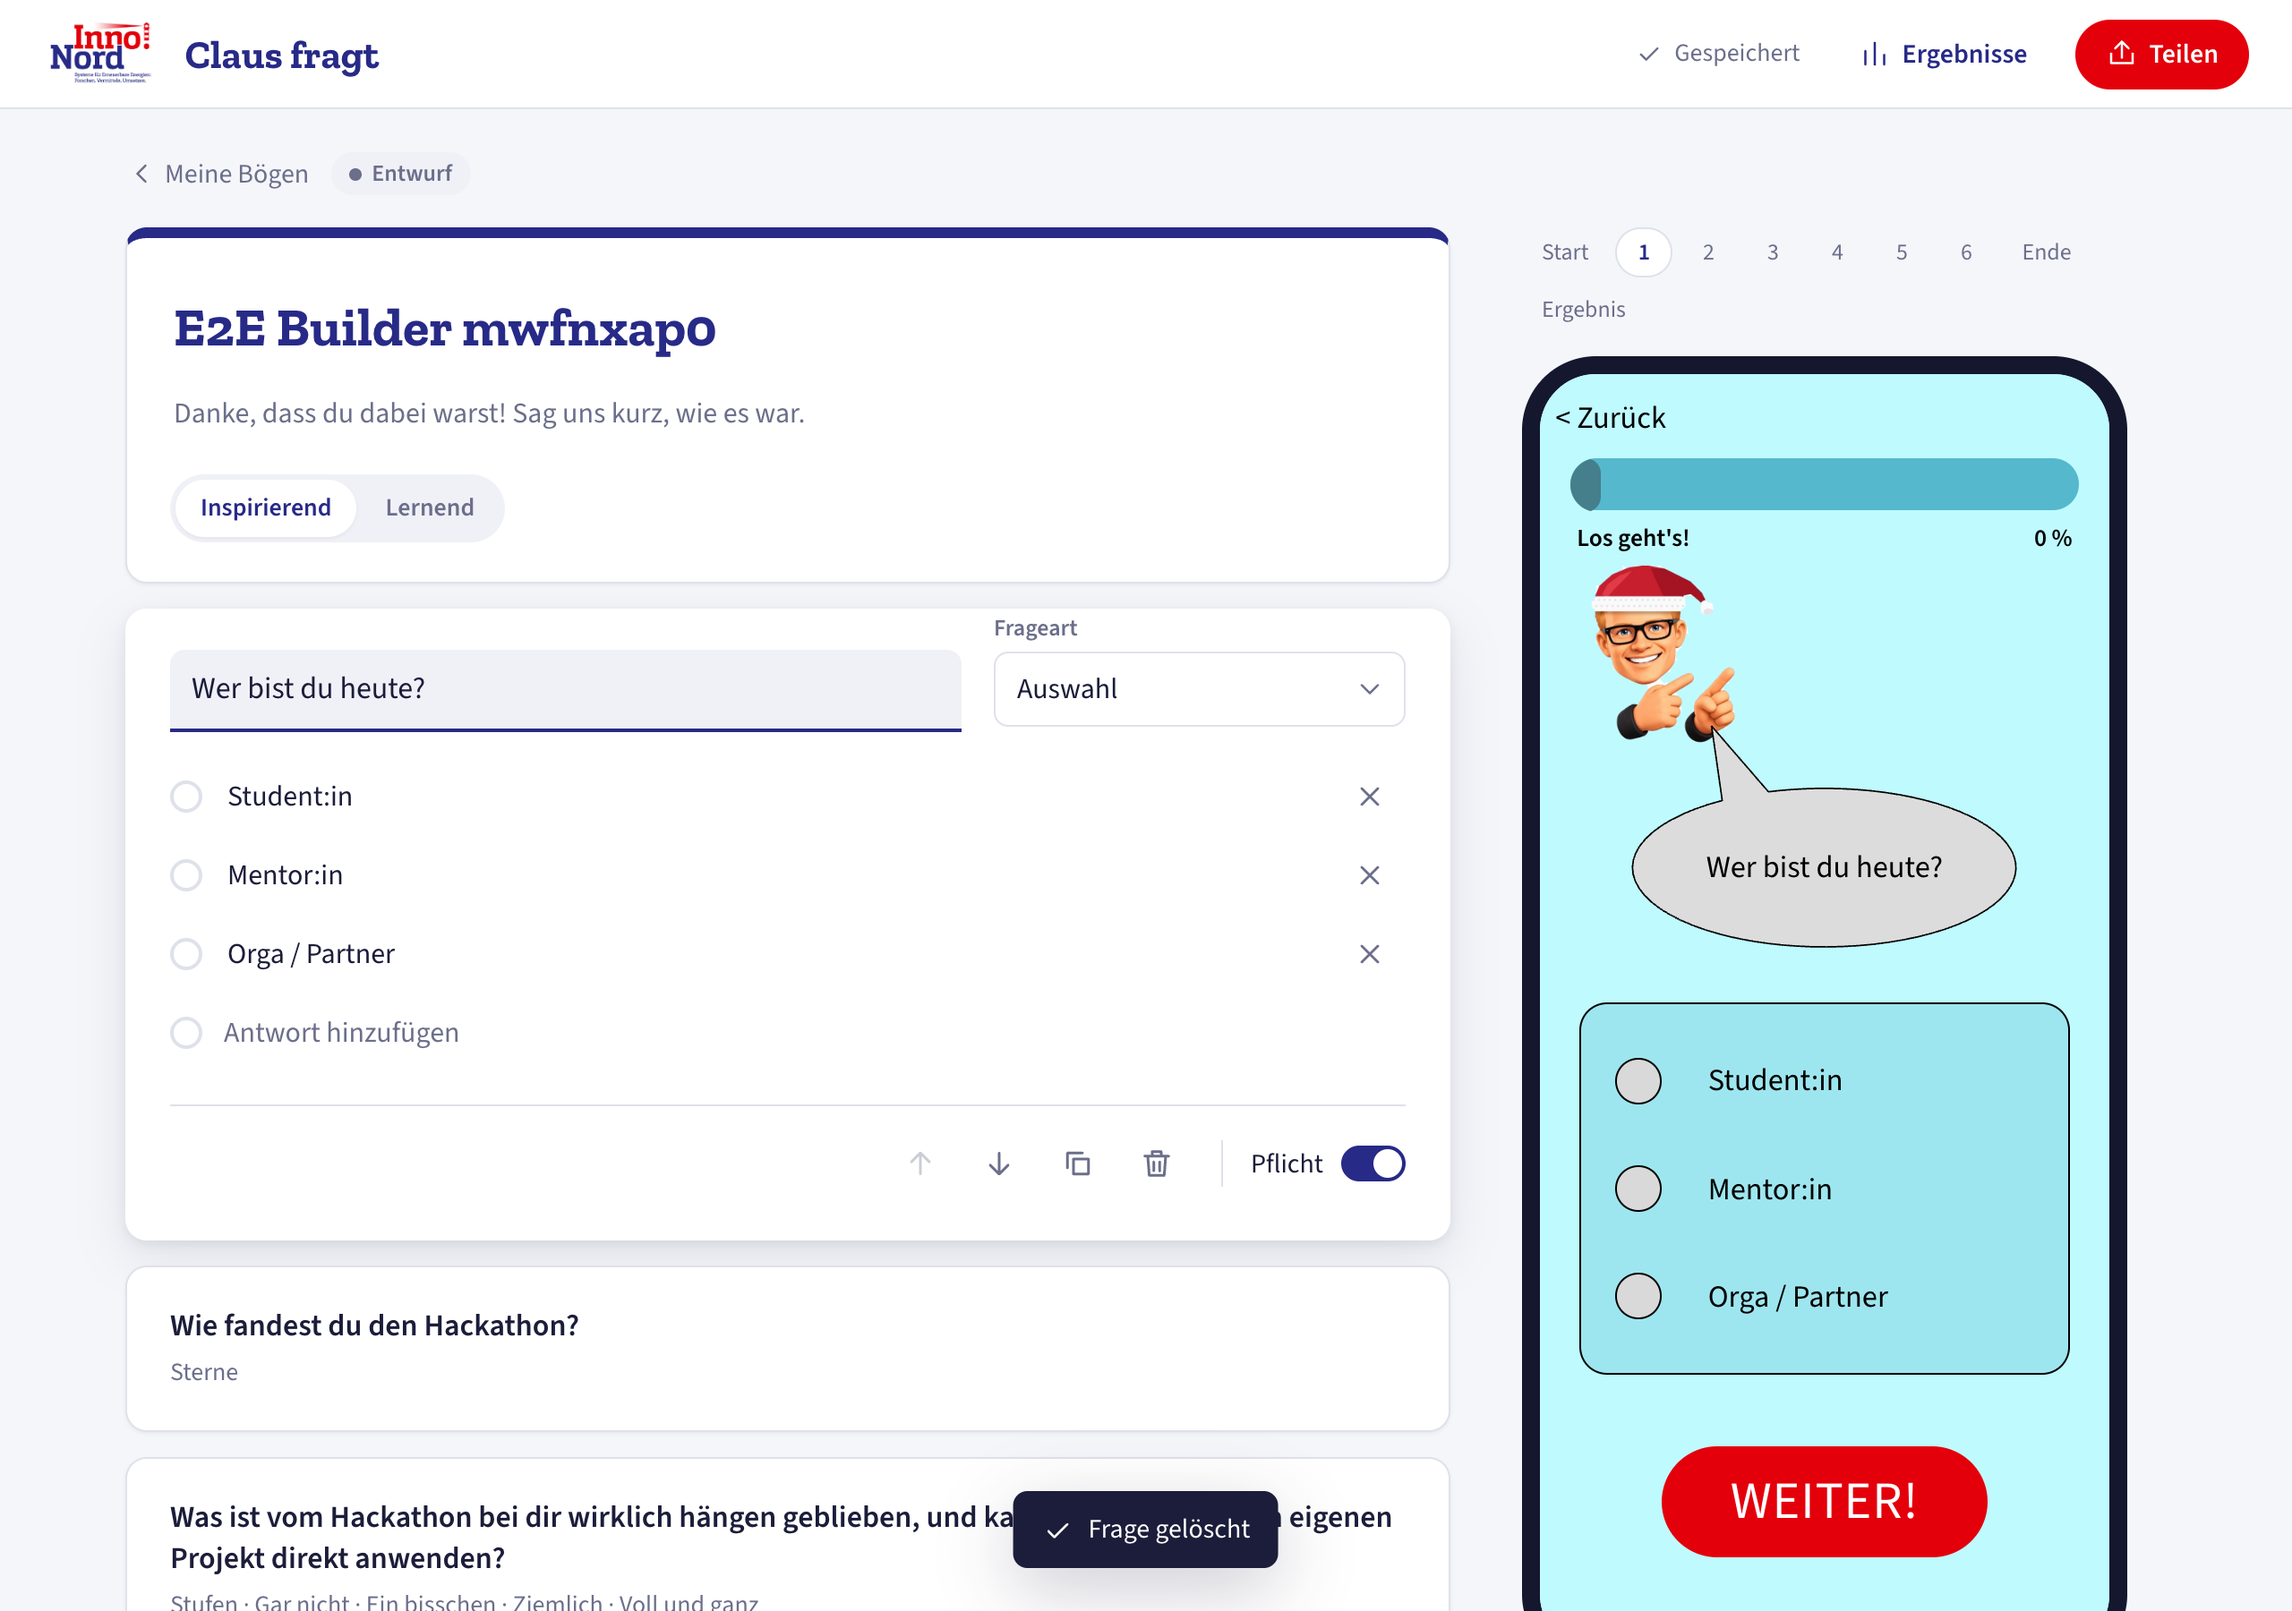
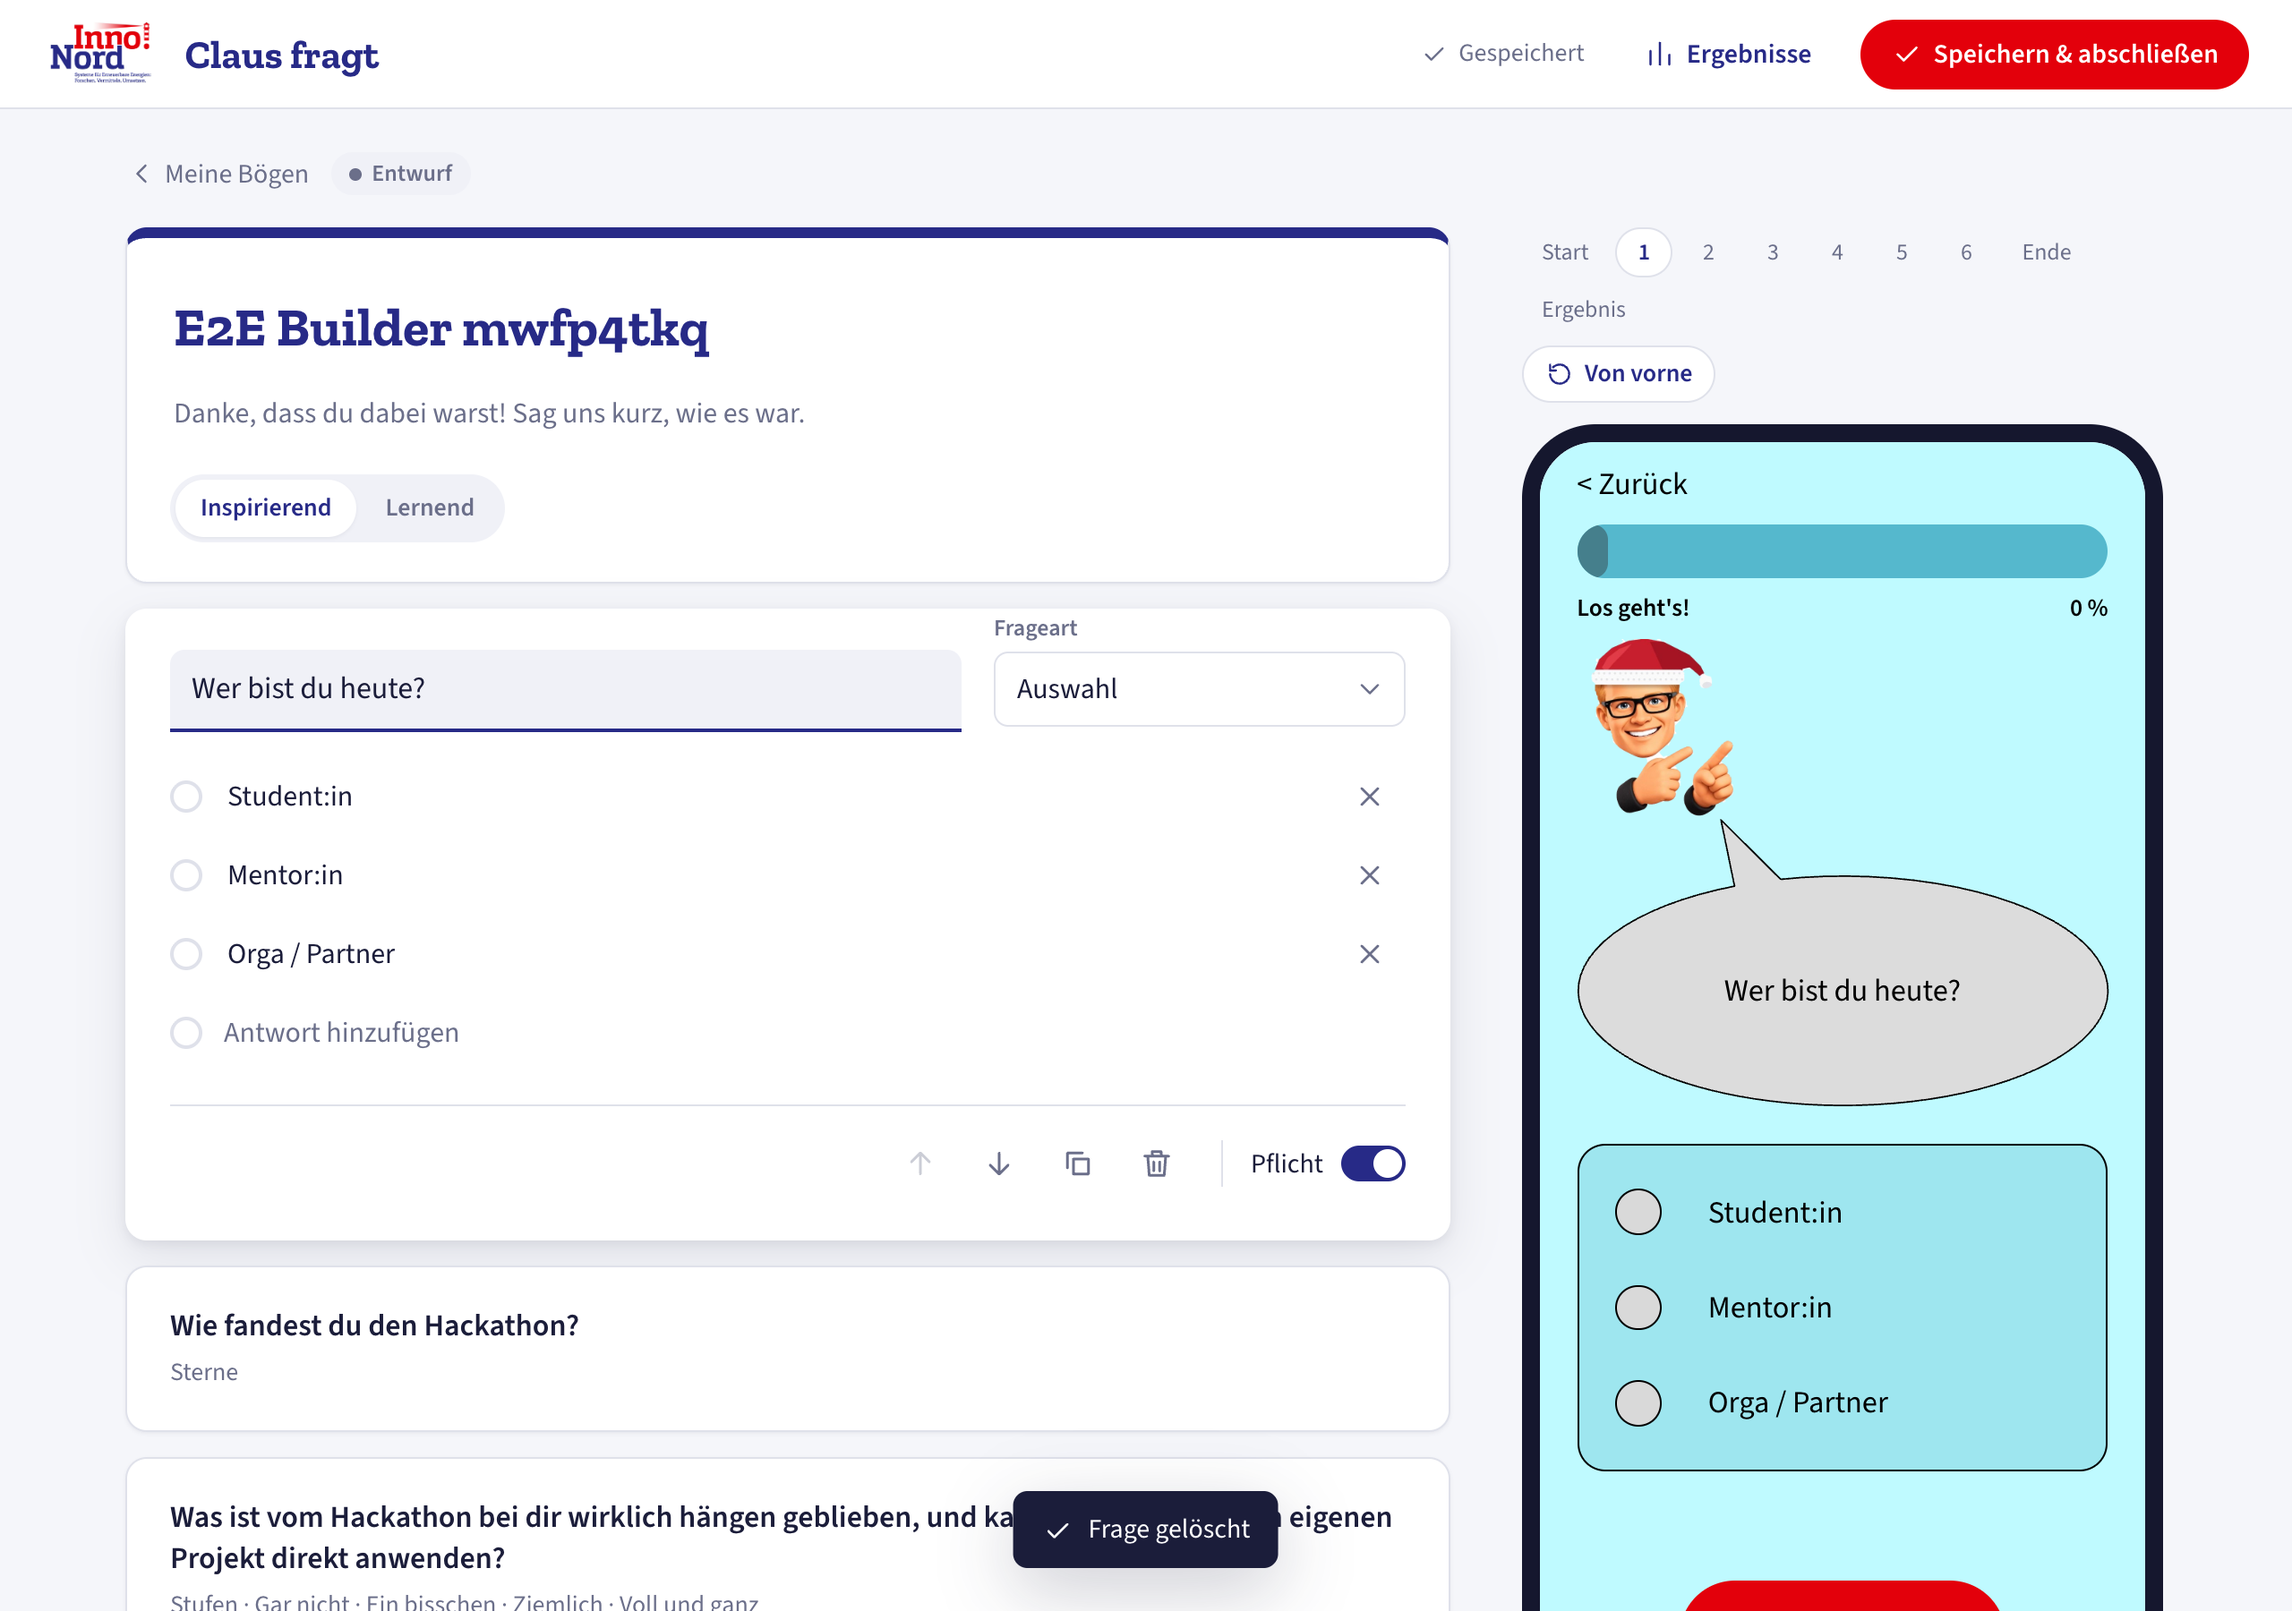
Screenshots Raster + Zurück + CTA (E2E-Test auf dem Preview)
Screens unter docs/screens/v2 aktualisiert (Raster-Übersicht 393 und 375, Geschlossen, CTA, Von vorne),
Vergleichs-Aufruf auf die neuen Screenshot-Namen angepasst.

diff --git a/.claude/skills/claus-fragt-bauen/SKILL.md b/.claude/skills/claus-fragt-bauen/SKILL.md
@@ -18,7 +18,7 @@ description: Ablauf jeder Bau-Runde im Projekt Claus fragt (Builder für Evaluat
    - `rm -rf .next && npx tsc --noEmit && npm run build`
    - `npx next dev -p 3123`, dann `node scripts/visual-test.mjs http://localhost:3123` → muss mit `errors: none` enden (native Dialoge zählen als Fehler).
    - Screenshots in `.shots/` selbst ansehen: Sprechblase sauber? Claus wandert? Editor ruhig?
-   - `node scripts/vergleich.mjs start=10-start multiple-choice=11-frage-1 stars=11-frage-2` und `.shots/vergleich-*.png` ansehen (links Prototyp, rechts Umsetzung).
+   - `node scripts/vergleich.mjs start=11-start multiple-choice=11-frage-1 stars=11-frage-2` und `.shots/vergleich-*.png` ansehen (links Prototyp, rechts Umsetzung).
    - Builder auch mobil prüfen (393 px Breite, Vorschau-Button).
    - Testdaten wieder löschen, fremde Bögen nie anfassen.
 5. **Learnings** in `docs/LEARNINGS.md` ergänzen (Problem → Regel).

diff --git a/CLAUDE.md b/CLAUDE.md
@@ -30,7 +30,7 @@ Art (Inspirierend/Lernend): `brand/themes.ts`. Hinweise/KPI: `lib/rules.ts`, `li
 
 ## Definition of Done (jede Runde)
 1. `npx tsc --noEmit` und `npm run build` grün.
-2. `npx next dev -p 3123`, dann `node scripts/visual-test.mjs http://localhost:3123` (muss mit `errors: none` enden) und bei Design-Änderungen `node scripts/vergleich.mjs start=10-start multiple-choice=11-frage-1 stars=11-frage-2`.
+2. `npx next dev -p 3123`, dann `node scripts/visual-test.mjs http://localhost:3123` (muss mit `errors: none` enden) und bei Design-Änderungen `node scripts/vergleich.mjs start=11-start multiple-choice=11-frage-1 stars=11-frage-2`.
 3. Screenshots in `.shots/vergleich-*.png` mit `docs/prototyp/` vergleichen: Abweichungen beheben oder begründen.
 4. Learnings in `docs/LEARNINGS.md` eintragen.
 5. Branch + PR, Vercel-Preview abwarten, Preview-Link testen.
